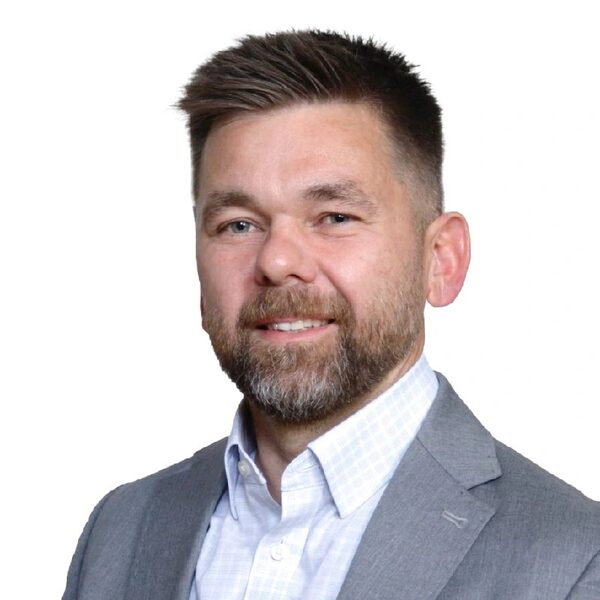
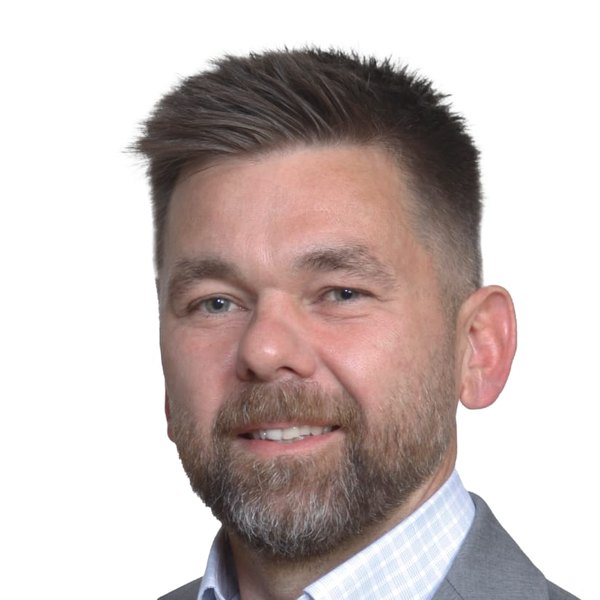
Summit: update Faisal Hakki and Amal Al-Sadi photos, titles and bios
Claude-Session: https://claude.ai/code/session_01Gv2w7Ky7Wgaiowdr3YSguK

diff --git a/src/lib/summitProgramme.ts b/src/lib/summitProgramme.ts
@@ -40,8 +40,8 @@ export const speakers: Speaker[] = [
     name: { en: "Mr. Faisal Hakki", ar: "السيد فيصل حقي" },
     title: { en: "Managing Director, AB Ventures LP", ar: "المدير العام، AB Ventures LP" },
     bio: {
-      en: "Investor and board observer at HyperPay. Former CEO of Oasis500, the Middle East's go-to tech startup accelerator, and former trustee of the Crown Prince Foundation.",
-      ar: "مستثمر ومراقب في مجلس إدارة HyperPay. شغل سابقاً منصب الرئيس التنفيذي لشركة Oasis500، أبرز مسرّعات الشركات التقنية الناشئة في المنطقة، وعضوية مجلس أمناء مؤسسة ولي العهد.",
+      en: "Leads AB Ventures, Arab Bank's early-stage venture capital arm focused on financial technology. Former CEO of Oasis500, Jordan's leading seed-stage fund and accelerator, former board member of Intaj and TechWorks, former trustee of the Crown Prince Foundation, and a 2018 Innovation Eisenhower Fellow.",
+      ar: "يدير AB Ventures، ذراع الاستثمار الجريء المبكر للبنك العربي والمتخصص في التكنولوجيا المالية. شغل سابقاً منصب الرئيس التنفيذي لـ Oasis500، صندوق الاستثمار التأسيسي والمسرّعة الرائدة في الأردن، وكان عضواً في مجالس إدارة «إنتاج» وTechWorks ومجلس أمناء مؤسسة ولي العهد، وهو زميل آيزنهاور للابتكار لعام ٢٠١٨.",
     },
     photo: "/speakers/faisal-hakki.jpg",
   },
@@ -74,8 +74,12 @@ export const speakers: Speaker[] = [
   {
     id: "amaal-saadi",
     photo: "/speakers/amaal-saadi.jpg",
-    name: { en: "Ms. Amaal Saadi", ar: "السيدة آمال السعدي" },
-    title: { en: "JoAcademy, a Jordanian e-learning platform", ar: "JoAcademy، منصة تعليم إلكتروني أردنية" },
+    name: { en: "Ms. Amal Al-Sadi", ar: "السيدة أمل السعدي" },
+    title: { en: "Chief Technology Officer, Jo Academy | ULA Group", ar: "الرئيسة التنفيذية للتكنولوجيا، Jo Academy | ULA Group" },
+    bio: {
+      en: "Technology executive with over 25 years in software engineering, digital transformation and innovation. She leads technology strategy at Jo Academy, previously spent 14 years at ESKADENIA Software, founded VineTechs, and was named Visionary Woman of the Year in Technology at the 2025 Fluxx Middle East Awards.",
+      ar: "قيادية في التكنولوجيا بخبرة تزيد على ٢٥ عاماً في هندسة البرمجيات والتحول الرقمي والابتكار. تقود الاستراتيجية التقنية في Jo Academy، وعملت ١٤ عاماً في ESKADENIA Software، وأسست شركة VineTechs، ونالت لقب المرأة الملهمة للعام في التكنولوجيا ضمن جوائز Fluxx Middle East لعام ٢٠٢٥.",
+    },
   },
   {
     id: "abdul-fattah-darabseh",
@@ -140,8 +144,8 @@ export const agenda: AgendaItem[] = [
       ar: "الجلسة الحوارية الثانية: قصص ريادية في اقتصاد الذكاء الاصطناعي: فن صناعة الفرص",
     },
     who: {
-      en: "Dr. Abdullah Battah · Mr. Hamzeh Nasrallah · Ms. Amaal Saadi. Moderated by Mr. Abdul Fattah Darabseh",
-      ar: "د. عبد الله بطاح · السيد حمزة نصرالله · السيدة آمال السعدي. يدير الجلسة السيد عبد الفتاح الدرابسة",
+      en: "Dr. Abdullah Battah · Mr. Hamzeh Nasrallah · Ms. Amal Al-Sadi. Moderated by Mr. Abdul Fattah Darabseh",
+      ar: "د. عبد الله بطاح · السيد حمزة نصرالله · السيدة أمل السعدي. يدير الجلسة السيد عبد الفتاح الدرابسة",
     },
     highlight: true,
   },
